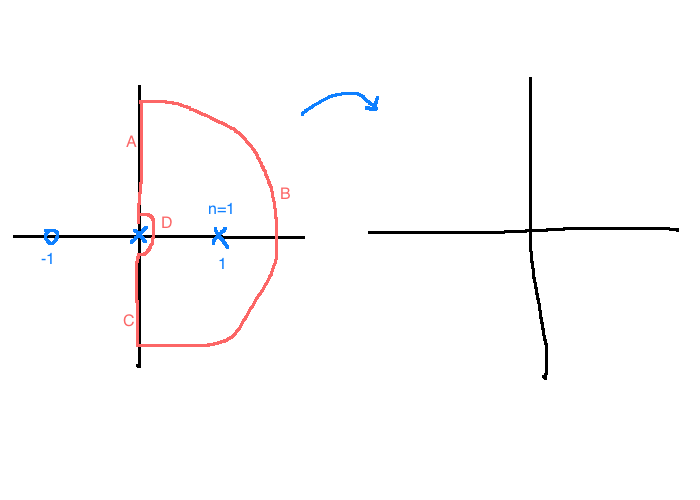
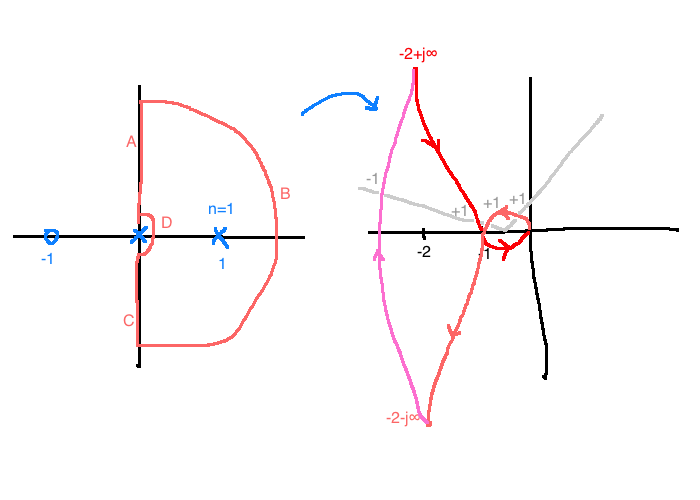
Stability with nyquist

diff --git a/se380/10 frequency domain methods.md b/se380/10 frequency domain methods.md
@@ -145,3 +145,47 @@ $$C(s)P(s) = \frac{1}{s+10}$$
 #### e.g. 8.3.2
 $$C(s)P(s) = \frac{s+1}{s(s-1)}$$
 <img src="img/eg832.png" />
+
+Segment A:
+- $s=j\omega$, $\omega \in [\epsilon, \infty)$, $0\lt\epsilon\lt 1$.
+- $C(j\omega)P(j\omega) = \frac{j\omega+1}{j\omega(j\omega-1)}=\frac{j-\omega}{\omega(1-j\omega)}=\frac{(j-\omega)(1+j\omega)}{\omega(1+\omega^2)}=\frac{-2}{1+\omega^2}+j\frac{1-\omega^2}{\omega(1+\omega^2)}$
+- When $s = j\epsilon$, $C(j\epsilon)P(j\epsilon) \approx -2 \underbrace{+}_\text{key!} j\infty$
+- When $\omega=1$ ($s=j$), $C(j)P(j)=-1+0j$
+- For all $\omega \gt 1$, $\Re(CP) \lt 0$ and $\Im(CP) \lt 0$
+
+Segment B:
+- $|s|=\infty$, so $|PC|=0$
+
+Segment C:
+- Reflection of segment $A$ about the real axis
+
+Segment D:
+- $s=\epsilon e^{j\theta}$, $\theta \in [-\frac{\pi}{2}, \frac{\pi}{2}]$
+- It's clear that $|PC|=\infty$ along segment D.
+- We want to know if it moves clockwise or counterclockwise as $\theta$ goes from $-\frac{\pi}{2}$ to $\frac{\pi}{2}$
+- $C(\epsilon e^{j\theta})P(\epsilon e^{j\theta}) = \frac{\epsilon e^{j\theta}+1}{\epsilon e^{j\theta}(\epsilon e^{j\theta}-1)} \approx \frac{1}{\epsilon e^{j\theta}(-1)} = \frac{-1}{\epsilon e^{j\theta}} = \frac{-\epsilon e^{-j\theta}}{\epsilon} = \frac{e^{j\pi} e^{-j\theta}}{\epsilon}=\frac{e^{j(\pi-\epsilon)}}{\epsilon}$
+
+Observe the number of counterclockwise encirclements of $\frac{-1}{K}$:
+
+| |$-\infty \lt \frac{-1}{K} \lt -1$|$-1 \lt \frac{-1}{K} \lt 0$|$0 \lt \frac{-1}{K} \lt \infty$|
+|-|-|-|-|
+|$N$|-1|+1|0|
+
+Since we need $n=1$, we need $N=1$ for input-output stability. Therefore, $K \gt 1$.
+
+## Stability margins, revisited
+If a system is stable, how stable?
+
+### Phase margin
+Nominal model: $\phi=0$, input-output stability
+
+How much phase change $\phi$ can I tolerate before losing IO stability? Recall that $|e^{j\phi}|=1$, $\angle e^{j\phi}=\phi$
+
+### e.g. 8.4.1
+$$L(s) = \frac{1}{(s+1)^2}$$
+
+$n=0$, so we need zero counterclockwise encirclements of -1 to get IO stability.
+
+<img src="img/eg841.png" />
+
+- If we rotate the Nyquist plot by $-\frac{\pi}{2}$, we get $N=1$ and lose IO stability.
